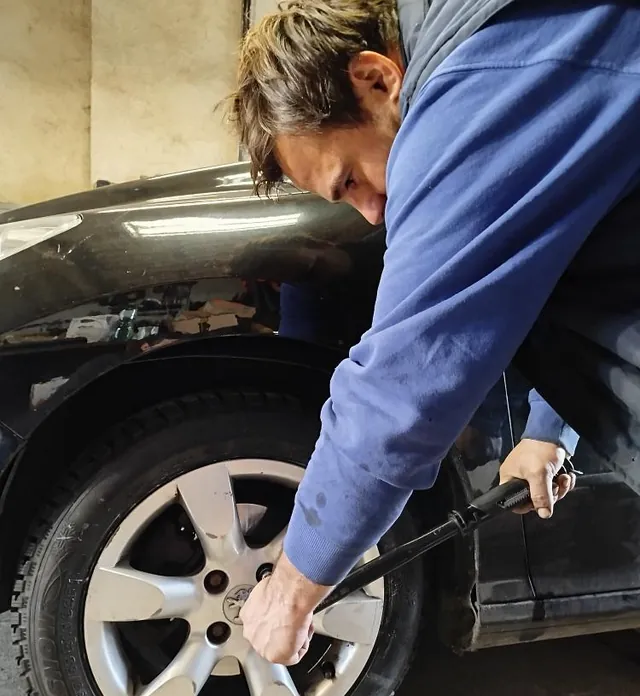
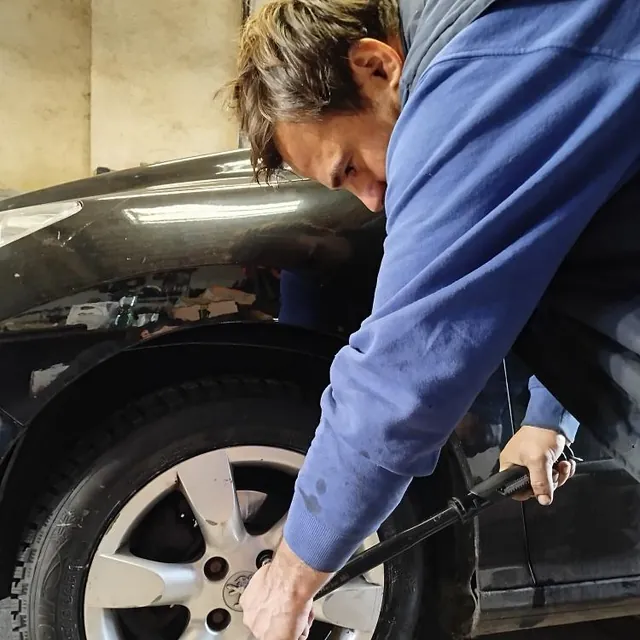
Přezutí: obě fotky pod nadpisem stejně velké (čtverce)
Claude-Session: https://claude.ai/code/session_01Y1VXkdeYxg9Shjpfapu4ji

diff --git a/prezuti.html b/prezuti.html
@@ -161,10 +161,9 @@
   body { background: var(--bg); color: var(--text); font-family: 'Inter', sans-serif; min-height: 100vh; }
 
   /* Fotky: dvě vedle sebe pod nadpisem. Pevná výška, aby stránka při načítání neposkočila. */
-  .foto-dve { display: grid; grid-template-columns: 117fr 92fr; gap: 8px; margin: 0 0 4px; }
-  .foto-pas { position: relative; border-radius: 16px; overflow: hidden; margin: 0; box-shadow: 0 2px 8px rgba(0,0,0,0.06); background: #e2e8f0; }
+  .foto-dve { display: grid; grid-template-columns: 1fr 1fr; gap: 8px; margin: 0 0 4px; }
+  .foto-pas { position: relative; aspect-ratio: 1 / 1; border-radius: 16px; overflow: hidden; margin: 0; box-shadow: 0 2px 8px rgba(0,0,0,0.06); background: #e2e8f0; }
   .foto-pas img { position: absolute; inset: 0; display: block; width: 100%; height: 100%; object-fit: cover; }
-  /* levá fotka určuje výšku řádku (poměr 7 : 6), pravá se jí přizpůsobí */
   .page-title { max-width:500px; margin:0 auto; padding:24px 16px 0; text-align:center; }
 
   .page-title h1 { font-size:24px; font-weight:800; letter-spacing:-.02em; text-wrap:balance; color:var(--text); margin:0; }
@@ -360,8 +359,8 @@
 
 <div class="container">
 <div class="foto-dve">
-  <figure class="foto-pas" style="aspect-ratio:117/100"><img src="foto-prezuti.webp" alt="Přezouvání s utahovákem v dílně M&amp;T Servis" width="640" height="480" style="object-position:38% 50%"></figure>
-  <figure class="foto-pas"><img src="foto-klic.webp" alt="Dotažení kola momentovým klíčem" width="640" height="696" style="object-position:50% 50%"></figure>
+  <figure class="foto-pas"><img src="foto-prezuti.webp" alt="Přezouvání s utahovákem v dílně M&amp;T Servis" width="640" height="640"></figure>
+  <figure class="foto-pas"><img src="foto-klic.webp" alt="Dotažení kola momentovým klíčem" width="640" height="640"></figure>
 </div>
 
   
